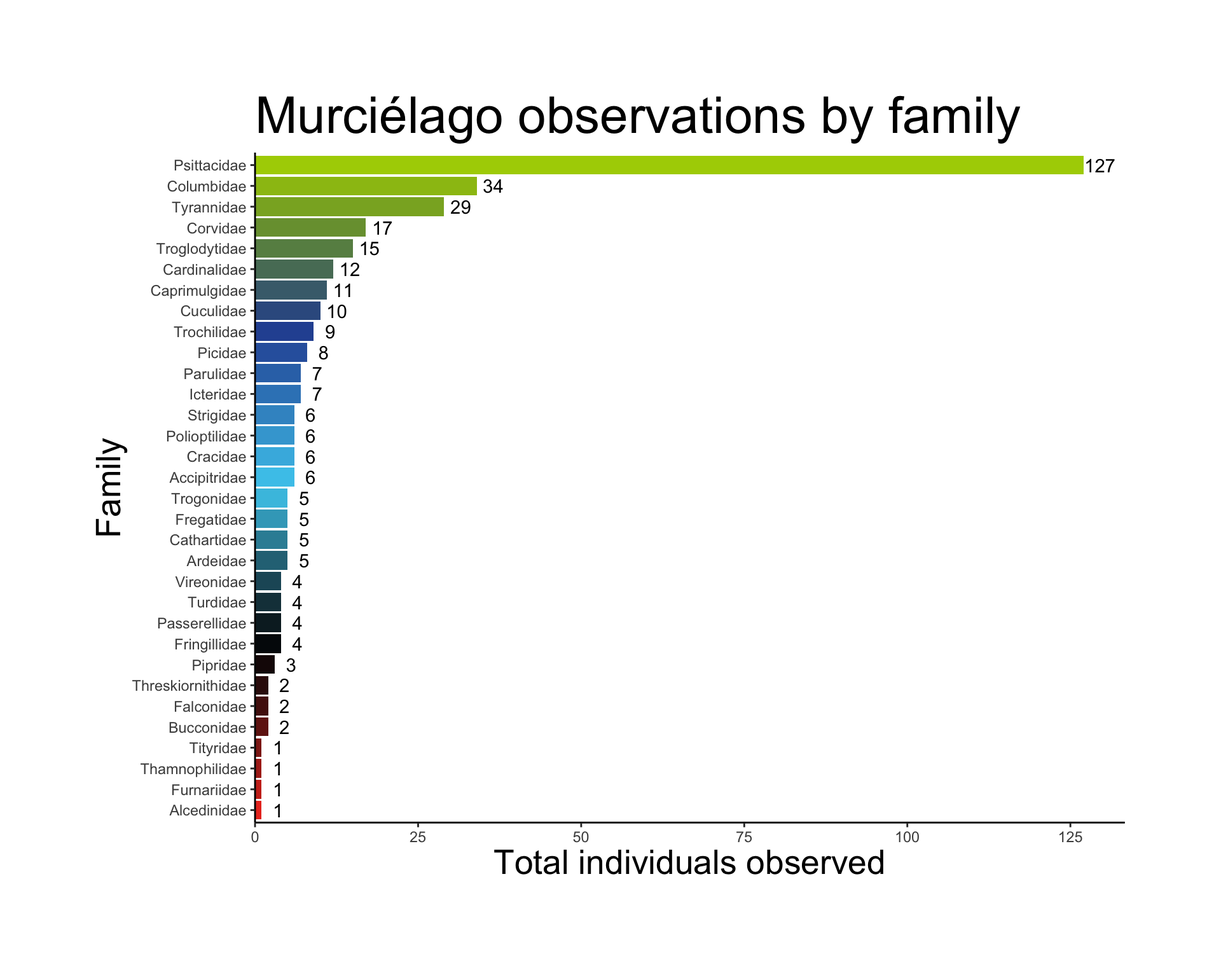
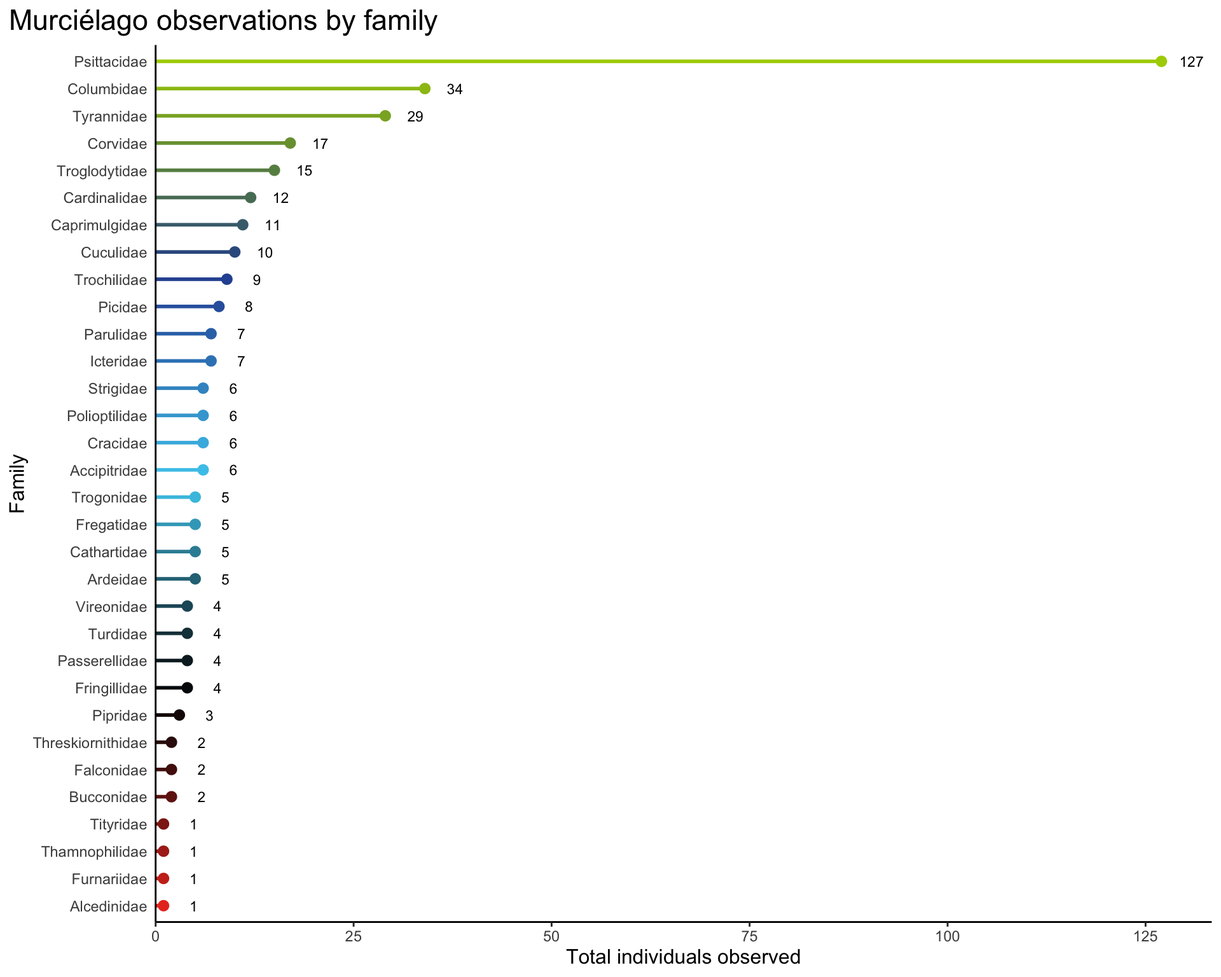
new plots for sensoria and rank abundance

diff --git a/code/ACG-CBC-data-processing-2023.html b/code/ACG-CBC-data-processing-2023.html
@@ -85,6 +85,7 @@ pre > code.sourceCode > span > a:first-child::before { text-decoration: underlin
   <li><a href="#sensoria-data" id="toc-sensoria-data" class="nav-link" data-scroll-target="#sensoria-data">4. Sensoria data</a></li>
   <li><a href="#post-processing-in-excel" id="toc-post-processing-in-excel" class="nav-link" data-scroll-target="#post-processing-in-excel">5. Post-processing in Excel</a></li>
   <li><a href="#some-visualizations" id="toc-some-visualizations" class="nav-link" data-scroll-target="#some-visualizations">6. Some visualizations</a></li>
+  <li><a href="#rank-abundance" id="toc-rank-abundance" class="nav-link" data-scroll-target="#rank-abundance">7. Rank abundance</a></li>
   </ul>
 </nav>
 </div>
@@ -118,7 +119,8 @@ pre > code.sourceCode > span > a:first-child::before { text-decoration: underlin
 <span id="cb1-2"><a href="#cb1-2" aria-hidden="true" tabindex="-1"></a><span class="fu">library</span>(here) <span class="co"># organizing directories</span></span>
 <span id="cb1-3"><a href="#cb1-3" aria-hidden="true" tabindex="-1"></a><span class="fu">library</span>(janitor) <span class="co"># cleaning column names</span></span>
 <span id="cb1-4"><a href="#cb1-4" aria-hidden="true" tabindex="-1"></a><span class="fu">library</span>(readxl) <span class="co"># using the xlsx file</span></span>
-<span id="cb1-5"><a href="#cb1-5" aria-hidden="true" tabindex="-1"></a><span class="fu">library</span>(tanagR) <span class="co"># color palettes inspired by members of the Thraupidae family</span></span></code><button title="Copy to Clipboard" class="code-copy-button"><i class="bi"></i></button></pre></div>
+<span id="cb1-5"><a href="#cb1-5" aria-hidden="true" tabindex="-1"></a><span class="fu">library</span>(tanagR) <span class="co"># color palettes inspired by members of the Thraupidae family</span></span>
+<span id="cb1-6"><a href="#cb1-6" aria-hidden="true" tabindex="-1"></a><span class="fu">library</span>(ggrepel)</span></code><button title="Copy to Clipboard" class="code-copy-button"><i class="bi"></i></button></pre></div>
 </div>
 <p>These are the data files that are useful to have.</p>
 <div class="cell">
@@ -128,25 +130,29 @@ pre > code.sourceCode > span > a:first-child::before { text-decoration: underlin
 <span id="cb2-4"><a href="#cb2-4" aria-hidden="true" tabindex="-1"></a>  <span class="fu">mutate</span>(<span class="at">common_name =</span> <span class="fu">case_when</span>(</span>
 <span id="cb2-5"><a href="#cb2-5" aria-hidden="true" tabindex="-1"></a>    common_name <span class="sc">==</span> <span class="st">"Yellow-olive Flycatcher"</span> <span class="sc">~</span> <span class="st">"Yellow-olive Flatbill"</span>,</span>
 <span id="cb2-6"><a href="#cb2-6" aria-hidden="true" tabindex="-1"></a>    common_name <span class="sc">==</span> <span class="st">"Cattle Egret"</span> <span class="sc">~</span> <span class="st">"Western Cattle Egret"</span>,</span>
-<span id="cb2-7"><a href="#cb2-7" aria-hidden="true" tabindex="-1"></a>    <span class="cn">TRUE</span> <span class="sc">~</span> common_name</span>
-<span id="cb2-8"><a href="#cb2-8" aria-hidden="true" tabindex="-1"></a>  ))</span>
-<span id="cb2-9"><a href="#cb2-9" aria-hidden="true" tabindex="-1"></a></span>
-<span id="cb2-10"><a href="#cb2-10" aria-hidden="true" tabindex="-1"></a>family_levels <span class="ot">&lt;-</span> taxon_nacc <span class="sc">%&gt;%</span> </span>
-<span id="cb2-11"><a href="#cb2-11" aria-hidden="true" tabindex="-1"></a>  <span class="fu">select</span>(family) <span class="sc">%&gt;%</span> </span>
-<span id="cb2-12"><a href="#cb2-12" aria-hidden="true" tabindex="-1"></a>  <span class="fu">unique</span>() <span class="sc">%&gt;%</span> </span>
-<span id="cb2-13"><a href="#cb2-13" aria-hidden="true" tabindex="-1"></a>  <span class="fu">mutate</span>(<span class="at">family =</span> <span class="fu">fct_inorder</span>(family)) <span class="sc">%&gt;%</span> </span>
-<span id="cb2-14"><a href="#cb2-14" aria-hidden="true" tabindex="-1"></a>  <span class="fu">pull</span>(family)</span>
-<span id="cb2-15"><a href="#cb2-15" aria-hidden="true" tabindex="-1"></a></span>
-<span id="cb2-16"><a href="#cb2-16" aria-hidden="true" tabindex="-1"></a><span class="co"># data from Murcielago</span></span>
-<span id="cb2-17"><a href="#cb2-17" aria-hidden="true" tabindex="-1"></a>murci <span class="ot">&lt;-</span> <span class="fu">read_xlsx</span>(here<span class="sc">::</span><span class="fu">here</span>(<span class="st">"data"</span>, <span class="st">"data-entry"</span>, <span class="st">"CRSR_CBC_2023_Murcielago_data_entry.xlsx"</span>), <span class="at">sheet =</span> <span class="st">"datos"</span>) <span class="sc">%&gt;%</span> </span>
-<span id="cb2-18"><a href="#cb2-18" aria-hidden="true" tabindex="-1"></a>  <span class="fu">clean_names</span>() <span class="sc">%&gt;%</span> </span>
-<span id="cb2-19"><a href="#cb2-19" aria-hidden="true" tabindex="-1"></a>  <span class="co"># attach taxonomic info</span></span>
-<span id="cb2-20"><a href="#cb2-20" aria-hidden="true" tabindex="-1"></a>  <span class="fu">left_join</span>(., taxon_nacc, <span class="at">by =</span> <span class="fu">c</span>(<span class="st">"especie"</span> <span class="ot">=</span> <span class="st">"common_name"</span>))</span>
-<span id="cb2-21"><a href="#cb2-21" aria-hidden="true" tabindex="-1"></a></span>
-<span id="cb2-22"><a href="#cb2-22" aria-hidden="true" tabindex="-1"></a><span class="co"># data from Sensoria-Buenos Aires route</span></span>
-<span id="cb2-23"><a href="#cb2-23" aria-hidden="true" tabindex="-1"></a><span class="co"># sensoria &lt;- read_csv(here::here("data", "CRCA_CBC_2022_Sensoria_data_entry.csv")) %&gt;% </span></span>
-<span id="cb2-24"><a href="#cb2-24" aria-hidden="true" tabindex="-1"></a><span class="co">#   clean_names() %&gt;% </span></span>
-<span id="cb2-25"><a href="#cb2-25" aria-hidden="true" tabindex="-1"></a><span class="co">#   left_join(., taxon_nacc, by = c("especie" = "common_name"))</span></span></code><button title="Copy to Clipboard" class="code-copy-button"><i class="bi"></i></button></pre></div>
+<span id="cb2-7"><a href="#cb2-7" aria-hidden="true" tabindex="-1"></a>    common_name <span class="sc">==</span> <span class="st">"Olive-striped Flycatcher"</span> <span class="sc">~</span> <span class="st">"Olive-streaked Flycatcher"</span>,</span>
+<span id="cb2-8"><a href="#cb2-8" aria-hidden="true" tabindex="-1"></a>    common_name <span class="sc">==</span> <span class="st">"Grayish Saltator"</span> <span class="sc">~</span> <span class="st">"Cinnamon-bellied Saltator"</span>,</span>
+<span id="cb2-9"><a href="#cb2-9" aria-hidden="true" tabindex="-1"></a>    <span class="cn">TRUE</span> <span class="sc">~</span> common_name </span>
+<span id="cb2-10"><a href="#cb2-10" aria-hidden="true" tabindex="-1"></a>  )) <span class="sc">%&gt;%</span> </span>
+<span id="cb2-11"><a href="#cb2-11" aria-hidden="true" tabindex="-1"></a>  <span class="co"># caracara split: using Caracara plancus</span></span>
+<span id="cb2-12"><a href="#cb2-12" aria-hidden="true" tabindex="-1"></a>  <span class="fu">filter</span>(species <span class="sc">!=</span> <span class="st">"Caracara cheriway"</span>)</span>
+<span id="cb2-13"><a href="#cb2-13" aria-hidden="true" tabindex="-1"></a></span>
+<span id="cb2-14"><a href="#cb2-14" aria-hidden="true" tabindex="-1"></a>family_levels <span class="ot">&lt;-</span> taxon_nacc <span class="sc">%&gt;%</span></span>
+<span id="cb2-15"><a href="#cb2-15" aria-hidden="true" tabindex="-1"></a>  <span class="fu">select</span>(family) <span class="sc">%&gt;%</span></span>
+<span id="cb2-16"><a href="#cb2-16" aria-hidden="true" tabindex="-1"></a>  <span class="fu">unique</span>() <span class="sc">%&gt;%</span></span>
+<span id="cb2-17"><a href="#cb2-17" aria-hidden="true" tabindex="-1"></a>  <span class="fu">mutate</span>(<span class="at">family =</span> <span class="fu">fct_inorder</span>(family)) <span class="sc">%&gt;%</span></span>
+<span id="cb2-18"><a href="#cb2-18" aria-hidden="true" tabindex="-1"></a>  <span class="fu">pull</span>(family)</span>
+<span id="cb2-19"><a href="#cb2-19" aria-hidden="true" tabindex="-1"></a></span>
+<span id="cb2-20"><a href="#cb2-20" aria-hidden="true" tabindex="-1"></a><span class="co"># data from Murcielago</span></span>
+<span id="cb2-21"><a href="#cb2-21" aria-hidden="true" tabindex="-1"></a>murci <span class="ot">&lt;-</span> <span class="fu">read_xlsx</span>(here<span class="sc">::</span><span class="fu">here</span>(<span class="st">"data"</span>, <span class="st">"data-entry"</span>, <span class="st">"CRSR_CBC_2023_Murcielago_data_entry.xlsx"</span>), <span class="at">sheet =</span> <span class="st">"datos"</span>) <span class="sc">%&gt;%</span> </span>
+<span id="cb2-22"><a href="#cb2-22" aria-hidden="true" tabindex="-1"></a>  <span class="fu">clean_names</span>() <span class="sc">%&gt;%</span> </span>
+<span id="cb2-23"><a href="#cb2-23" aria-hidden="true" tabindex="-1"></a>  <span class="co"># attach taxonomic info</span></span>
+<span id="cb2-24"><a href="#cb2-24" aria-hidden="true" tabindex="-1"></a>  <span class="fu">left_join</span>(., taxon_nacc, <span class="at">by =</span> <span class="fu">c</span>(<span class="st">"especie"</span> <span class="ot">=</span> <span class="st">"common_name"</span>))</span>
+<span id="cb2-25"><a href="#cb2-25" aria-hidden="true" tabindex="-1"></a></span>
+<span id="cb2-26"><a href="#cb2-26" aria-hidden="true" tabindex="-1"></a><span class="co"># data from Sensoria-Buenos Aires route</span></span>
+<span id="cb2-27"><a href="#cb2-27" aria-hidden="true" tabindex="-1"></a>sensoria <span class="ot">&lt;-</span> <span class="fu">read_xlsx</span>(here<span class="sc">::</span><span class="fu">here</span>(<span class="st">"data"</span>, <span class="st">"data-entry"</span>, <span class="st">"CRCA_CBC_2023_Sensoria_data_entry.xlsx"</span>), <span class="at">sheet =</span> <span class="st">"datos"</span>) <span class="sc">%&gt;%</span></span>
+<span id="cb2-28"><a href="#cb2-28" aria-hidden="true" tabindex="-1"></a>  <span class="fu">clean_names</span>() <span class="sc">%&gt;%</span></span>
+<span id="cb2-29"><a href="#cb2-29" aria-hidden="true" tabindex="-1"></a>  <span class="fu">left_join</span>(., taxon_nacc, <span class="at">by =</span> <span class="fu">c</span>(<span class="st">"especie"</span> <span class="ot">=</span> <span class="st">"common_name"</span>))</span></code><button title="Copy to Clipboard" class="code-copy-button"><i class="bi"></i></button></pre></div>
 </div>
 <p>This is the function to summarize individual counts by species and sort species by family. This depends on the species column being named “especie” and the individual count column being named “numero”.</p>
 <div class="cell">
@@ -199,15 +205,25 @@ pre > code.sourceCode > span > a:first-child::before { text-decoration: underlin
 <section id="sensoria-data" class="level1">
 <h1>4. Sensoria data</h1>
 <div class="cell">
-<div class="sourceCode cell-code" id="cb7"><pre class="sourceCode r code-with-copy"><code class="sourceCode r"><span id="cb7-1"><a href="#cb7-1" aria-hidden="true" tabindex="-1"></a><span class="co"># sensoria_spp &lt;- unique(sensoria$especie) %&gt;% </span></span>
-<span id="cb7-2"><a href="#cb7-2" aria-hidden="true" tabindex="-1"></a><span class="co">#   length()</span></span>
-<span id="cb7-3"><a href="#cb7-3" aria-hidden="true" tabindex="-1"></a><span class="co"># 96 species</span></span>
+<div class="sourceCode cell-code" id="cb7"><pre class="sourceCode r code-with-copy"><code class="sourceCode r"><span id="cb7-1"><a href="#cb7-1" aria-hidden="true" tabindex="-1"></a>sensoria_spp <span class="ot">&lt;-</span> <span class="fu">unique</span>(sensoria<span class="sc">$</span>especie) <span class="sc">%&gt;%</span></span>
+<span id="cb7-2"><a href="#cb7-2" aria-hidden="true" tabindex="-1"></a>  <span class="fu">length</span>()</span>
+<span id="cb7-3"><a href="#cb7-3" aria-hidden="true" tabindex="-1"></a><span class="co"># 105 species</span></span>
 <span id="cb7-4"><a href="#cb7-4" aria-hidden="true" tabindex="-1"></a></span>
-<span id="cb7-5"><a href="#cb7-5" aria-hidden="true" tabindex="-1"></a><span class="co"># sensoria_tally &lt;- count_function(sensoria)</span></span>
+<span id="cb7-5"><a href="#cb7-5" aria-hidden="true" tabindex="-1"></a>sensoria_tally <span class="ot">&lt;-</span> <span class="fu">count_function</span>(sensoria)</span>
 <span id="cb7-6"><a href="#cb7-6" aria-hidden="true" tabindex="-1"></a></span>
-<span id="cb7-7"><a href="#cb7-7" aria-hidden="true" tabindex="-1"></a><span class="co"># head(sensoria_tally)</span></span>
-<span id="cb7-8"><a href="#cb7-8" aria-hidden="true" tabindex="-1"></a></span>
-<span id="cb7-9"><a href="#cb7-9" aria-hidden="true" tabindex="-1"></a><span class="co">#write_csv(sensoria_tally, here::here("tallies", "sensoria-2022.csv"))</span></span></code><button title="Copy to Clipboard" class="code-copy-button"><i class="bi"></i></button></pre></div>
+<span id="cb7-7"><a href="#cb7-7" aria-hidden="true" tabindex="-1"></a><span class="fu">head</span>(sensoria_tally)</span></code><button title="Copy to Clipboard" class="code-copy-button"><i class="bi"></i></button></pre></div>
+<div class="cell-output cell-output-stdout">
+<pre><code># A tibble: 6 × 2
+  especie           sum_ind
+  &lt;chr&gt;               &lt;dbl&gt;
+1 Inca Dove               2
+2 Ruddy Ground Dove      10
+3 White-tipped Dove       2
+4 White-winged Dove       7
+5 Groove-billed Ani      12
+6 Squirrel Cuckoo         2</code></pre>
+</div>
+<div class="sourceCode cell-code" id="cb9"><pre class="sourceCode r code-with-copy"><code class="sourceCode r"><span id="cb9-1"><a href="#cb9-1" aria-hidden="true" tabindex="-1"></a><span class="co"># write_csv(sensoria_tally, here::here("tallies", "sensoria-2023.csv"))</span></span></code><button title="Copy to Clipboard" class="code-copy-button"><i class="bi"></i></button></pre></div>
 </div>
 </section>
 <section id="post-processing-in-excel" class="level1">
@@ -217,41 +233,109 @@ pre > code.sourceCode > span > a:first-child::before { text-decoration: underlin
 <section id="some-visualizations" class="level1">
 <h1>6. Some visualizations</h1>
 <div class="cell">
-<div class="sourceCode cell-code" id="cb8"><pre class="sourceCode r code-with-copy"><code class="sourceCode r"><span id="cb8-1"><a href="#cb8-1" aria-hidden="true" tabindex="-1"></a>family_summary <span class="ot">&lt;-</span> <span class="cf">function</span>(df) {</span>
-<span id="cb8-2"><a href="#cb8-2" aria-hidden="true" tabindex="-1"></a>  df <span class="sc">%&gt;%</span> </span>
-<span id="cb8-3"><a href="#cb8-3" aria-hidden="true" tabindex="-1"></a>    <span class="fu">group_by</span>(family) <span class="sc">%&gt;%</span> </span>
-<span id="cb8-4"><a href="#cb8-4" aria-hidden="true" tabindex="-1"></a>    <span class="co"># summarizing observations by family</span></span>
-<span id="cb8-5"><a href="#cb8-5" aria-hidden="true" tabindex="-1"></a>    <span class="fu">group_by</span>(family) <span class="sc">%&gt;%</span> </span>
-<span id="cb8-6"><a href="#cb8-6" aria-hidden="true" tabindex="-1"></a>    <span class="fu">summarize</span>(<span class="at">sum_obs =</span> <span class="fu">sum</span>(numero)) <span class="sc">%&gt;%</span> </span>
-<span id="cb8-7"><a href="#cb8-7" aria-hidden="true" tabindex="-1"></a>    <span class="fu">ungroup</span>() <span class="sc">%&gt;%</span> </span>
-<span id="cb8-8"><a href="#cb8-8" aria-hidden="true" tabindex="-1"></a>    <span class="co"># set the factor levels to be in descending order by sum_obs</span></span>
-<span id="cb8-9"><a href="#cb8-9" aria-hidden="true" tabindex="-1"></a>    <span class="fu">arrange</span>(sum_obs) <span class="sc">%&gt;%</span> </span>
-<span id="cb8-10"><a href="#cb8-10" aria-hidden="true" tabindex="-1"></a>    <span class="fu">mutate</span>(<span class="at">family =</span> <span class="fu">fct_inorder</span>(family))</span>
-<span id="cb8-11"><a href="#cb8-11" aria-hidden="true" tabindex="-1"></a>}</span>
-<span id="cb8-12"><a href="#cb8-12" aria-hidden="true" tabindex="-1"></a></span>
-<span id="cb8-13"><a href="#cb8-13" aria-hidden="true" tabindex="-1"></a>murci_families <span class="ot">&lt;-</span> <span class="fu">family_summary</span>(murci)</span>
-<span id="cb8-14"><a href="#cb8-14" aria-hidden="true" tabindex="-1"></a></span>
-<span id="cb8-15"><a href="#cb8-15" aria-hidden="true" tabindex="-1"></a>barplot_format <span class="ot">&lt;-</span> <span class="cf">function</span>(df) {</span>
-<span id="cb8-16"><a href="#cb8-16" aria-hidden="true" tabindex="-1"></a>  <span class="fu">ggplot</span>(df, <span class="fu">aes</span>(<span class="at">x =</span> sum_obs, <span class="at">y =</span> family)) <span class="sc">+</span></span>
-<span id="cb8-17"><a href="#cb8-17" aria-hidden="true" tabindex="-1"></a>    <span class="fu">geom_col</span>(<span class="fu">aes</span>(<span class="at">fill =</span> family)) <span class="sc">+</span></span>
-<span id="cb8-18"><a href="#cb8-18" aria-hidden="true" tabindex="-1"></a>    <span class="fu">geom_text</span>(<span class="fu">aes</span>(<span class="at">label =</span> sum_obs), <span class="at">nudge_x =</span> <span class="fu">max</span>(df<span class="sc">$</span>sum_obs<span class="sc">*</span><span class="fl">0.02</span>)) <span class="sc">+</span></span>
-<span id="cb8-19"><a href="#cb8-19" aria-hidden="true" tabindex="-1"></a>    <span class="fu">scale_x_continuous</span>(<span class="at">expand =</span> <span class="fu">c</span>(<span class="dv">0</span>, <span class="dv">0</span>), <span class="at">limits =</span> <span class="fu">c</span>(<span class="dv">0</span>, <span class="fu">max</span>(df<span class="sc">$</span>sum_obs<span class="sc">*</span><span class="fl">1.05</span>))) <span class="sc">+</span></span>
-<span id="cb8-20"><a href="#cb8-20" aria-hidden="true" tabindex="-1"></a>    <span class="fu">labs</span>(<span class="at">x =</span> <span class="st">"Total individuals observed"</span>, <span class="at">y =</span> <span class="st">"Family"</span>) <span class="sc">+</span></span>
-<span id="cb8-21"><a href="#cb8-21" aria-hidden="true" tabindex="-1"></a>    <span class="fu">theme_classic</span>() <span class="sc">+</span></span>
-<span id="cb8-22"><a href="#cb8-22" aria-hidden="true" tabindex="-1"></a>    <span class="fu">theme</span>(<span class="at">legend.position =</span> <span class="st">"none"</span>,</span>
-<span id="cb8-23"><a href="#cb8-23" aria-hidden="true" tabindex="-1"></a>          <span class="at">axis.title =</span> <span class="fu">element_text</span>(<span class="at">size =</span> <span class="dv">20</span>),</span>
-<span id="cb8-24"><a href="#cb8-24" aria-hidden="true" tabindex="-1"></a>          <span class="at">title =</span> <span class="fu">element_text</span>(<span class="at">size =</span> <span class="dv">25</span>), </span>
-<span id="cb8-25"><a href="#cb8-25" aria-hidden="true" tabindex="-1"></a>          <span class="at">plot.margin =</span> <span class="fu">margin</span>(<span class="dv">2</span>, <span class="dv">2</span>, <span class="dv">2</span>, <span class="dv">2</span>, <span class="st">"cm"</span>)) </span>
-<span id="cb8-26"><a href="#cb8-26" aria-hidden="true" tabindex="-1"></a>}</span>
-<span id="cb8-27"><a href="#cb8-27" aria-hidden="true" tabindex="-1"></a></span>
-<span id="cb8-28"><a href="#cb8-28" aria-hidden="true" tabindex="-1"></a>murci_families_barplot <span class="ot">&lt;-</span> <span class="fu">barplot_format</span>(murci_families) <span class="sc">+</span></span>
-<span id="cb8-29"><a href="#cb8-29" aria-hidden="true" tabindex="-1"></a>  <span class="co"># use the Tangara chilensis color palette</span></span>
-<span id="cb8-30"><a href="#cb8-30" aria-hidden="true" tabindex="-1"></a>  <span class="fu">scale_fill_manual</span>(<span class="at">values =</span> <span class="fu">tanagr_palette</span>(<span class="st">"tangara_chilensis"</span>, <span class="at">n =</span> <span class="dv">32</span>, <span class="at">discrete =</span> <span class="cn">FALSE</span>)) <span class="sc">+</span></span>
-<span id="cb8-31"><a href="#cb8-31" aria-hidden="true" tabindex="-1"></a>  <span class="fu">labs</span>(<span class="at">title =</span> <span class="st">"Murciélago observations by family"</span>)</span>
-<span id="cb8-32"><a href="#cb8-32" aria-hidden="true" tabindex="-1"></a></span>
-<span id="cb8-33"><a href="#cb8-33" aria-hidden="true" tabindex="-1"></a>murci_families_barplot</span></code><button title="Copy to Clipboard" class="code-copy-button"><i class="bi"></i></button></pre></div>
+<div class="sourceCode cell-code" id="cb10"><pre class="sourceCode r code-with-copy"><code class="sourceCode r"><span id="cb10-1"><a href="#cb10-1" aria-hidden="true" tabindex="-1"></a>family_summary <span class="ot">&lt;-</span> <span class="cf">function</span>(df) {</span>
+<span id="cb10-2"><a href="#cb10-2" aria-hidden="true" tabindex="-1"></a>  df <span class="sc">%&gt;%</span> </span>
+<span id="cb10-3"><a href="#cb10-3" aria-hidden="true" tabindex="-1"></a>    <span class="fu">group_by</span>(family) <span class="sc">%&gt;%</span> </span>
+<span id="cb10-4"><a href="#cb10-4" aria-hidden="true" tabindex="-1"></a>    <span class="co"># summarizing observations by family</span></span>
+<span id="cb10-5"><a href="#cb10-5" aria-hidden="true" tabindex="-1"></a>    <span class="fu">group_by</span>(family) <span class="sc">%&gt;%</span> </span>
+<span id="cb10-6"><a href="#cb10-6" aria-hidden="true" tabindex="-1"></a>    <span class="fu">summarize</span>(<span class="at">sum_obs =</span> <span class="fu">sum</span>(numero)) <span class="sc">%&gt;%</span> </span>
+<span id="cb10-7"><a href="#cb10-7" aria-hidden="true" tabindex="-1"></a>    <span class="fu">ungroup</span>() <span class="sc">%&gt;%</span> </span>
+<span id="cb10-8"><a href="#cb10-8" aria-hidden="true" tabindex="-1"></a>    <span class="co"># set the factor levels to be in descending order by sum_obs</span></span>
+<span id="cb10-9"><a href="#cb10-9" aria-hidden="true" tabindex="-1"></a>    <span class="fu">arrange</span>(sum_obs) <span class="sc">%&gt;%</span> </span>
+<span id="cb10-10"><a href="#cb10-10" aria-hidden="true" tabindex="-1"></a>    <span class="fu">mutate</span>(<span class="at">family =</span> <span class="fu">fct_inorder</span>(family))</span>
+<span id="cb10-11"><a href="#cb10-11" aria-hidden="true" tabindex="-1"></a>}</span>
+<span id="cb10-12"><a href="#cb10-12" aria-hidden="true" tabindex="-1"></a></span>
+<span id="cb10-13"><a href="#cb10-13" aria-hidden="true" tabindex="-1"></a>murci_families <span class="ot">&lt;-</span> <span class="fu">family_summary</span>(murci)</span>
+<span id="cb10-14"><a href="#cb10-14" aria-hidden="true" tabindex="-1"></a></span>
+<span id="cb10-15"><a href="#cb10-15" aria-hidden="true" tabindex="-1"></a>sensoria_families <span class="ot">&lt;-</span> <span class="fu">family_summary</span>(sensoria)</span>
+<span id="cb10-16"><a href="#cb10-16" aria-hidden="true" tabindex="-1"></a></span>
+<span id="cb10-17"><a href="#cb10-17" aria-hidden="true" tabindex="-1"></a>family_plot <span class="ot">&lt;-</span> <span class="cf">function</span>(df) {</span>
+<span id="cb10-18"><a href="#cb10-18" aria-hidden="true" tabindex="-1"></a>  <span class="fu">ggplot</span>(df, <span class="fu">aes</span>(<span class="at">x =</span> sum_obs, <span class="at">y =</span> family)) <span class="sc">+</span></span>
+<span id="cb10-19"><a href="#cb10-19" aria-hidden="true" tabindex="-1"></a>    <span class="fu">geom_segment</span>(<span class="fu">aes</span>(<span class="at">x =</span> <span class="dv">0</span>, <span class="at">xend =</span> sum_obs, <span class="at">yend =</span> family, <span class="at">color =</span> family), <span class="at">size =</span> <span class="dv">1</span>) <span class="sc">+</span></span>
+<span id="cb10-20"><a href="#cb10-20" aria-hidden="true" tabindex="-1"></a>    <span class="fu">geom_point</span>(<span class="fu">aes</span>(<span class="at">color =</span> family), <span class="at">size =</span> <span class="fl">2.5</span>) <span class="sc">+</span></span>
+<span id="cb10-21"><a href="#cb10-21" aria-hidden="true" tabindex="-1"></a>    <span class="fu">geom_text</span>(<span class="fu">aes</span>(<span class="at">label =</span> sum_obs), <span class="at">nudge_x =</span> <span class="fu">max</span>(df<span class="sc">$</span>sum_obs<span class="sc">*</span><span class="fl">0.03</span>), <span class="at">size =</span> <span class="dv">3</span>) <span class="sc">+</span></span>
+<span id="cb10-22"><a href="#cb10-22" aria-hidden="true" tabindex="-1"></a>    <span class="fu">scale_x_continuous</span>(<span class="at">expand =</span> <span class="fu">c</span>(<span class="dv">0</span>, <span class="dv">0</span>), <span class="at">limits =</span> <span class="fu">c</span>(<span class="dv">0</span>, <span class="fu">max</span>(df<span class="sc">$</span>sum_obs<span class="sc">*</span><span class="fl">1.05</span>))) <span class="sc">+</span></span>
+<span id="cb10-23"><a href="#cb10-23" aria-hidden="true" tabindex="-1"></a>    <span class="fu">labs</span>(<span class="at">x =</span> <span class="st">"Total individuals observed"</span>, <span class="at">y =</span> <span class="st">"Family"</span>) <span class="sc">+</span></span>
+<span id="cb10-24"><a href="#cb10-24" aria-hidden="true" tabindex="-1"></a>    <span class="fu">theme_classic</span>() <span class="sc">+</span></span>
+<span id="cb10-25"><a href="#cb10-25" aria-hidden="true" tabindex="-1"></a>    <span class="fu">theme</span>(<span class="at">legend.position =</span> <span class="st">"none"</span>,</span>
+<span id="cb10-26"><a href="#cb10-26" aria-hidden="true" tabindex="-1"></a>          <span class="at">axis.title =</span> <span class="fu">element_text</span>(<span class="at">size =</span> <span class="dv">12</span>),</span>
+<span id="cb10-27"><a href="#cb10-27" aria-hidden="true" tabindex="-1"></a>          <span class="at">title =</span> <span class="fu">element_text</span>(<span class="at">size =</span> <span class="dv">14</span>),</span>
+<span id="cb10-28"><a href="#cb10-28" aria-hidden="true" tabindex="-1"></a>          <span class="at">axis.ticks.y =</span> <span class="fu">element_blank</span>(),</span>
+<span id="cb10-29"><a href="#cb10-29" aria-hidden="true" tabindex="-1"></a>          <span class="at">plot.title.position =</span> <span class="st">"plot"</span>)</span>
+<span id="cb10-30"><a href="#cb10-30" aria-hidden="true" tabindex="-1"></a>}</span>
+<span id="cb10-31"><a href="#cb10-31" aria-hidden="true" tabindex="-1"></a></span>
+<span id="cb10-32"><a href="#cb10-32" aria-hidden="true" tabindex="-1"></a>murci_family_plot <span class="ot">&lt;-</span> <span class="fu">family_plot</span>(murci_families) <span class="sc">+</span></span>
+<span id="cb10-33"><a href="#cb10-33" aria-hidden="true" tabindex="-1"></a>  <span class="co"># use the Tangara chilensis color palette</span></span>
+<span id="cb10-34"><a href="#cb10-34" aria-hidden="true" tabindex="-1"></a>  <span class="fu">scale_color_manual</span>(<span class="at">values =</span> <span class="fu">tanagr_palette</span>(<span class="st">"tangara_chilensis"</span>, <span class="at">n =</span> <span class="dv">32</span>, <span class="at">discrete =</span> <span class="cn">FALSE</span>)) <span class="sc">+</span></span>
+<span id="cb10-35"><a href="#cb10-35" aria-hidden="true" tabindex="-1"></a>  <span class="fu">labs</span>(<span class="at">title =</span> <span class="st">"Murciélago observations by family"</span>)</span></code><button title="Copy to Clipboard" class="code-copy-button"><i class="bi"></i></button></pre></div>
+<div class="cell-output cell-output-stderr">
+<pre><code>Warning: Using `size` aesthetic for lines was deprecated in ggplot2 3.4.0.
+ℹ Please use `linewidth` instead.</code></pre>
+</div>
+<div class="sourceCode cell-code" id="cb12"><pre class="sourceCode r code-with-copy"><code class="sourceCode r"><span id="cb12-1"><a href="#cb12-1" aria-hidden="true" tabindex="-1"></a>murci_family_plot</span></code><button title="Copy to Clipboard" class="code-copy-button"><i class="bi"></i></button></pre></div>
 <div class="cell-output-display">
 <p><img src="ACG-CBC-data-processing-2023_files/figure-html/unnamed-chunk-6-1.png" class="img-fluid" width="960"></p>
+</div>
+<div class="sourceCode cell-code" id="cb13"><pre class="sourceCode r code-with-copy"><code class="sourceCode r"><span id="cb13-1"><a href="#cb13-1" aria-hidden="true" tabindex="-1"></a>sensoria_family_plot <span class="ot">&lt;-</span> <span class="fu">family_plot</span>(sensoria_families) <span class="sc">+</span></span>
+<span id="cb13-2"><a href="#cb13-2" aria-hidden="true" tabindex="-1"></a>  <span class="co"># use the Cyanerpes cyaneus color palette</span></span>
+<span id="cb13-3"><a href="#cb13-3" aria-hidden="true" tabindex="-1"></a>  <span class="fu">scale_color_manual</span>(<span class="at">values =</span> <span class="fu">tanagr_palette</span>(<span class="st">"cyanerpes_cyaneus"</span>, <span class="at">n =</span> <span class="dv">35</span>, <span class="at">discrete =</span> <span class="cn">FALSE</span>)) <span class="sc">+</span></span>
+<span id="cb13-4"><a href="#cb13-4" aria-hidden="true" tabindex="-1"></a>  <span class="fu">labs</span>(<span class="at">title =</span> <span class="st">"Sensoria observations by family"</span>)</span>
+<span id="cb13-5"><a href="#cb13-5" aria-hidden="true" tabindex="-1"></a></span>
+<span id="cb13-6"><a href="#cb13-6" aria-hidden="true" tabindex="-1"></a>sensoria_family_plot </span></code><button title="Copy to Clipboard" class="code-copy-button"><i class="bi"></i></button></pre></div>
+<div class="cell-output-display">
+<p><img src="ACG-CBC-data-processing-2023_files/figure-html/unnamed-chunk-6-2.png" class="img-fluid" width="960"></p>
+</div>
+</div>
+</section>
+<section id="rank-abundance" class="level1">
+<h1>7. Rank abundance</h1>
+<div class="cell">
+<div class="sourceCode cell-code" id="cb14"><pre class="sourceCode r code-with-copy"><code class="sourceCode r"><span id="cb14-1"><a href="#cb14-1" aria-hidden="true" tabindex="-1"></a><span class="co"># function to calculate rank abundance</span></span>
+<span id="cb14-2"><a href="#cb14-2" aria-hidden="true" tabindex="-1"></a>rank_abundance_fxn <span class="ot">&lt;-</span> <span class="cf">function</span>(df) {</span>
+<span id="cb14-3"><a href="#cb14-3" aria-hidden="true" tabindex="-1"></a>  df <span class="sc">%&gt;%</span> </span>
+<span id="cb14-4"><a href="#cb14-4" aria-hidden="true" tabindex="-1"></a>    <span class="co"># calculate proportion of observations per species</span></span>
+<span id="cb14-5"><a href="#cb14-5" aria-hidden="true" tabindex="-1"></a>    <span class="fu">mutate</span>(<span class="at">rel_abund =</span> sum_ind<span class="sc">/</span><span class="fu">sum</span>(sum_ind)) <span class="sc">%&gt;%</span> </span>
+<span id="cb14-6"><a href="#cb14-6" aria-hidden="true" tabindex="-1"></a>    <span class="co"># create a new column for rank</span></span>
+<span id="cb14-7"><a href="#cb14-7" aria-hidden="true" tabindex="-1"></a>    <span class="fu">arrange</span>(<span class="sc">-</span>rel_abund) <span class="sc">%&gt;%</span> </span>
+<span id="cb14-8"><a href="#cb14-8" aria-hidden="true" tabindex="-1"></a>    <span class="fu">mutate</span>(<span class="at">rank =</span> <span class="fu">seq</span>(<span class="at">from =</span> <span class="dv">1</span>, <span class="at">to =</span> <span class="fu">length</span>(sum_ind), <span class="at">by =</span> <span class="dv">1</span>)) <span class="sc">%&gt;%</span> </span>
+<span id="cb14-9"><a href="#cb14-9" aria-hidden="true" tabindex="-1"></a>    <span class="co"># create a column for labelling</span></span>
+<span id="cb14-10"><a href="#cb14-10" aria-hidden="true" tabindex="-1"></a>    <span class="fu">mutate</span>(<span class="at">label =</span> <span class="fu">case_when</span>(</span>
+<span id="cb14-11"><a href="#cb14-11" aria-hidden="true" tabindex="-1"></a>      rank <span class="sc">&lt;</span> <span class="dv">11</span> <span class="sc">~</span> <span class="st">"yes"</span>,</span>
+<span id="cb14-12"><a href="#cb14-12" aria-hidden="true" tabindex="-1"></a>      <span class="cn">TRUE</span> <span class="sc">~</span> <span class="st">"no"</span></span>
+<span id="cb14-13"><a href="#cb14-13" aria-hidden="true" tabindex="-1"></a>    ))</span>
+<span id="cb14-14"><a href="#cb14-14" aria-hidden="true" tabindex="-1"></a>}</span>
+<span id="cb14-15"><a href="#cb14-15" aria-hidden="true" tabindex="-1"></a></span>
+<span id="cb14-16"><a href="#cb14-16" aria-hidden="true" tabindex="-1"></a>murci_rank <span class="ot">&lt;-</span> <span class="fu">rank_abundance_fxn</span>(murci_tally) </span>
+<span id="cb14-17"><a href="#cb14-17" aria-hidden="true" tabindex="-1"></a></span>
+<span id="cb14-18"><a href="#cb14-18" aria-hidden="true" tabindex="-1"></a>sensoria_rank <span class="ot">&lt;-</span> <span class="fu">rank_abundance_fxn</span>(sensoria_tally)</span>
+<span id="cb14-19"><a href="#cb14-19" aria-hidden="true" tabindex="-1"></a></span>
+<span id="cb14-20"><a href="#cb14-20" aria-hidden="true" tabindex="-1"></a><span class="co"># function to plot rank abundance</span></span>
+<span id="cb14-21"><a href="#cb14-21" aria-hidden="true" tabindex="-1"></a></span>
+<span id="cb14-22"><a href="#cb14-22" aria-hidden="true" tabindex="-1"></a>rank_abundance_plot <span class="ot">&lt;-</span> <span class="cf">function</span>(df) {</span>
+<span id="cb14-23"><a href="#cb14-23" aria-hidden="true" tabindex="-1"></a>  df <span class="sc">%&gt;%</span> </span>
+<span id="cb14-24"><a href="#cb14-24" aria-hidden="true" tabindex="-1"></a>    <span class="fu">ggplot</span>(<span class="fu">aes</span>(<span class="at">x =</span> rank, <span class="at">y =</span> rel_abund)) <span class="sc">+</span></span>
+<span id="cb14-25"><a href="#cb14-25" aria-hidden="true" tabindex="-1"></a>    <span class="fu">geom_line</span>() <span class="sc">+</span></span>
+<span id="cb14-26"><a href="#cb14-26" aria-hidden="true" tabindex="-1"></a>    <span class="fu">geom_point</span>() <span class="sc">+</span></span>
+<span id="cb14-27"><a href="#cb14-27" aria-hidden="true" tabindex="-1"></a>    <span class="fu">geom_text_repel</span>(<span class="at">data =</span> df <span class="sc">%&gt;%</span> <span class="fu">filter</span>(rank <span class="sc">&lt;</span> <span class="dv">10</span>),</span>
+<span id="cb14-28"><a href="#cb14-28" aria-hidden="true" tabindex="-1"></a>                    <span class="fu">aes</span>(<span class="at">label =</span> especie),     </span>
+<span id="cb14-29"><a href="#cb14-29" aria-hidden="true" tabindex="-1"></a>                    <span class="at">segment.curvature =</span> <span class="sc">-</span><span class="fl">1e-20</span>, <span class="at">point.padding =</span> <span class="fl">0.2</span>, </span>
+<span id="cb14-30"><a href="#cb14-30" aria-hidden="true" tabindex="-1"></a>                    <span class="at">force_pull =</span> <span class="fl">0.1</span>, <span class="at">direction =</span> <span class="st">"y"</span>, </span>
+<span id="cb14-31"><a href="#cb14-31" aria-hidden="true" tabindex="-1"></a>                    <span class="at">nudge_x =</span> <span class="dv">15</span>, <span class="at">nudge_y =</span> <span class="fl">0.01</span>,</span>
+<span id="cb14-32"><a href="#cb14-32" aria-hidden="true" tabindex="-1"></a>                    <span class="at">size =</span> <span class="dv">5</span>, <span class="at">col =</span> <span class="st">"red"</span>) <span class="sc">+</span></span>
+<span id="cb14-33"><a href="#cb14-33" aria-hidden="true" tabindex="-1"></a>    <span class="fu">labs</span>(<span class="at">x =</span> <span class="st">"Rank abundance"</span>, <span class="at">y =</span> <span class="st">"Relative abundance"</span>) <span class="sc">+</span></span>
+<span id="cb14-34"><a href="#cb14-34" aria-hidden="true" tabindex="-1"></a>    <span class="fu">theme_classic</span>() <span class="sc">+</span></span>
+<span id="cb14-35"><a href="#cb14-35" aria-hidden="true" tabindex="-1"></a>    <span class="fu">theme</span>(<span class="at">plot.title.position =</span> <span class="st">"plot"</span>)</span>
+<span id="cb14-36"><a href="#cb14-36" aria-hidden="true" tabindex="-1"></a>}</span>
+<span id="cb14-37"><a href="#cb14-37" aria-hidden="true" tabindex="-1"></a></span>
+<span id="cb14-38"><a href="#cb14-38" aria-hidden="true" tabindex="-1"></a><span class="fu">rank_abundance_plot</span>(murci_rank) <span class="sc">+</span></span>
+<span id="cb14-39"><a href="#cb14-39" aria-hidden="true" tabindex="-1"></a>  <span class="fu">labs</span>(<span class="at">title =</span> <span class="st">"Murciélago rank abundance"</span>)</span></code><button title="Copy to Clipboard" class="code-copy-button"><i class="bi"></i></button></pre></div>
+<div class="cell-output-display">
+<p><img src="ACG-CBC-data-processing-2023_files/figure-html/unnamed-chunk-7-1.png" class="img-fluid" width="672"></p>
+</div>
+<div class="sourceCode cell-code" id="cb15"><pre class="sourceCode r code-with-copy"><code class="sourceCode r"><span id="cb15-1"><a href="#cb15-1" aria-hidden="true" tabindex="-1"></a><span class="fu">rank_abundance_plot</span>(sensoria_rank) <span class="sc">+</span></span>
+<span id="cb15-2"><a href="#cb15-2" aria-hidden="true" tabindex="-1"></a>  <span class="fu">labs</span>(<span class="at">title =</span> <span class="st">"Sensoria rank abundance"</span>)</span></code><button title="Copy to Clipboard" class="code-copy-button"><i class="bi"></i></button></pre></div>
+<div class="cell-output-display">
+<p><img src="ACG-CBC-data-processing-2023_files/figure-html/unnamed-chunk-7-2.png" class="img-fluid" width="672"></p>
 </div>
 </div>
 </section>
